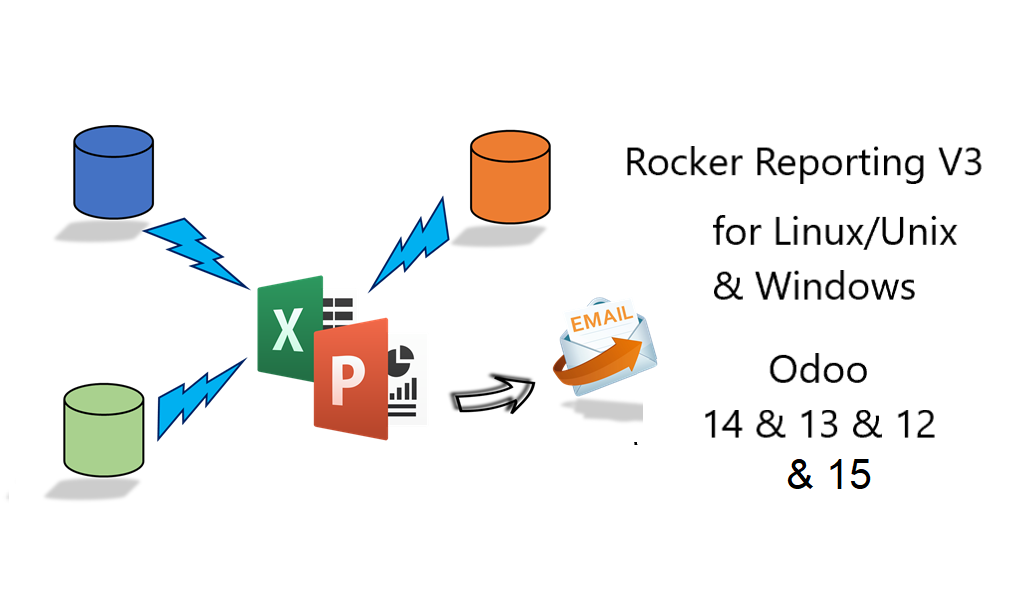
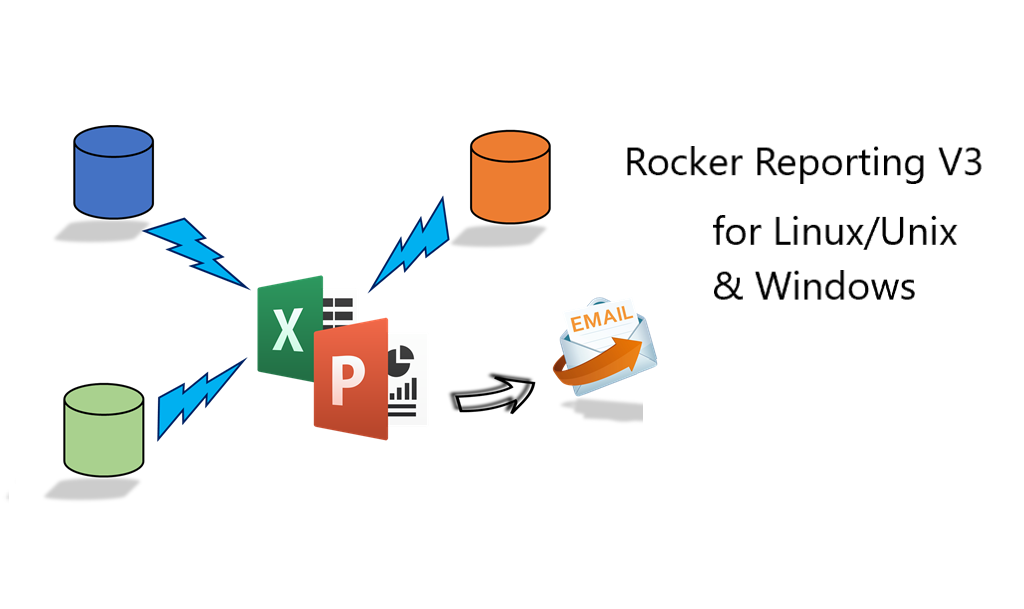
odoo 16

Changed region(s): [[0.6875, 0.6552, 0.9062, 0.7176], [0.75, 0.7488, 0.875, 0.8112], [0.75, 0.5616, 0.8438, 0.624]]

diff --git a/rocker_app_v3/static/description/index.html b/rocker_app_v3/static/description/index.html
@@ -11,7 +11,7 @@
     <div class="container">
         <h1>Rocker Reporting V3</h1>
         <h2>for Odoo / Linux, Unix & Windows platforms</h2>
-        <h3>Odoo 12.0 & Odoo 13.0 & Odoo 14 & Odoo 15</h3>
+        <h3>Odoo 12.0 & Odoo 13.0 & Odoo 14 & Odoo 15 & Odoo 16</h3>
         Collect data to Excel or Powerpoint from various data sources, Present business data with Powerpoint graphs.
         Or use Excel templates to present business graphs.
         Get data from Odoo & external PostgreSQL, SQLServer, MySQL, MariaDB, ODBC or Oracle databases. Send reports by
@@ -19,7 +19,7 @@
         <p>
         <h2>Requirements:</h2>
         <ol>
-            <li>Odoo 12 or Odoo 13 or Odoo 14 or Odoo 15 installed</li>
+            <li>Odoo 12 or Odoo 13 or Odoo 14 or Odoo 15 or Odoo 16 installed</li>
             <li>Support Linux, Unix & Windows servers</li>
             <li>Does not need Excel or PowerPoint installed on server</li>
             <li>Openpyxl, Python-PPTX & Pandas python packages installed on server</li>
@@ -30,6 +30,10 @@
 
         <h2>News/Notes:</h2>
         <ul>
+            <li><b>5.4.2023</b>
+                <br>
+                Version for Odoo 16
+            </li>
             <li><b>3.2.2021</b>
                 <br>
                 Fixed access rules
@@ -76,10 +80,8 @@
                 </li>
             <p>
                 <li><b>24.2.2020</b>
-                    <br>Did you create nice report that takes data from Odoo or other well known Application?<br>
-                    Why don't you share it with others. Upload your Excel template, SQL & screendump to
-                    <b><a href="https://github.com/akarki58/rocker_templates">Rocker_Templates repository</a></b>
-                    <p>Author contact: antti.rocker.karki@outlook.com</p>
+                    <br>
+                    Author contact: antti.rocker.karki (at) outlook.com
                 </li>
         </ul>
         <p>

diff --git a/rocker_app_v3/models/rocker_report.py b/rocker_app_v3/models/rocker_report.py
@@ -47,6 +47,10 @@ _logger = logging.getLogger(__name__)
 # _logger.error('An ERROR message')
 # --log_level=:DEBUG
 
+@api.model
+def _lang_get(self):
+    return self.env['res.lang'].get_installed()
+
 class rocker_report_collection(models.Model):
     _name = 'rocker.report.collection'
     _description = 'Rocker Collection Reports'
@@ -73,7 +77,7 @@ class Report(models.Model):
     database = fields.Many2one('rocker.database', string='Datasource',
                                default=lambda self: self.env['rocker.database'].search([('name', '=', 'Odoo')]))
     report_ids = fields.Many2many('rocker.report', 'rocker_report_collection', 'collection_id', 'report_id',
-                                  'Collection reports:    (If Excel then check that Sheet names are unique!)',
+                                  'Check that Excel Sheet names are unique!',
                                   domain="[('report_type', '=', 'single'),('report_application','=', report_application)]")
     sequence = fields.Integer(string='Sequence', default=10)
     collection_ids = fields.Many2many('rocker.report', 'rocker_report_collection', 'report_id', 'collection_id',
@@ -195,7 +199,10 @@ class Report(models.Model):
     email_subject = fields.Char('Subject', default='Rocker Report Notification: [NAME], [DATE]')
     email_to = fields.Char('Email To')
     email_body = fields.Text('Message Body', default='[FILENAME] has been executed at [DATETIME]<p>Cheers<br/>Rocker')
-     
+
+    lang = fields.Selection(_lang_get, string='Language',
+                            help="Show data in this language if many available.")
+
     # def write(self, vals):
     #     _logger.debug('Rocker report write')
     #     return super(Report, self).write(vals)
@@ -283,7 +290,7 @@ class Report(models.Model):
             if con:
                 _logger.debug('Populate single Powerpoint report')
                 # one per page
-                slide, element_written = self._populate_pp_sql(self, con, prs, slide, page_elements, pp_title, self.select_clause, self.column_headings, cnt_report, element_written, collection)
+                slide, element_written = self._populate_pp_sql(self, con, prs, slide, page_elements, pp_title, self.select_clause, self.column_headings, cnt_report, element_written, collection, self.lang)
             else:
                 raise exceptions.ValidationError('No DB connection')
         elif self.report_type == 'collection':
@@ -313,7 +320,7 @@ class Report(models.Model):
                     _logger.debug('Report number ' +  str(cnt_report) + ' on Slide: ' + str(slides_created))
                 if con:
                     _logger.debug('PowerPoint Collection report populate')
-                    slide, element_written = self._populate_pp_sql(report, con, prs, slide, page_elements, pp_title, report.select_clause, report.column_headings, cnt_report, element_written, collection)
+                    slide, element_written = self._populate_pp_sql(report, con, prs, slide, page_elements, pp_title, report.select_clause, report.column_headings, cnt_report, element_written, collection, report.lang)
                 else:
                     raise exceptions.ValidationError('No DB connection')
                 cnt_report += 1
@@ -410,7 +417,7 @@ class Report(models.Model):
             # let's fill with data
             if con:
                 _logger.debug('Populate single report')
-                self._populate_sql(con, workbook, worksheet, self.select_clause, self.column_headings)
+                self._populate_sql(con, workbook, worksheet, self.select_clause, self.column_headings, self.lang)
             else:
                 raise exceptions.ValidationError('No DB connection')
         elif self.report_type == 'collection':
@@ -425,7 +432,7 @@ class Report(models.Model):
                 # let's fill with data
                 if con:
                     _logger.debug('Collection report populate')
-                    self._populate_sql(con, workbook, worksheet, report.select_clause, report.column_headings)
+                    self._populate_sql(con, workbook, worksheet, report.select_clause, report.column_headings, report.lang)
                 else:
                     raise exceptions.ValidationError('No DB connection')
 
@@ -545,7 +552,7 @@ class Report(models.Model):
         else:
             raise exceptions.ValidationError('Exception, No Database connection')
 
-    def _populate_sql(self, con, workbook, worksheet, sql, headings, context=None):
+    def _populate_sql(self, con, workbook, worksheet, sql, headings, language, context=None):
 
         # for tbl in worksheet.tables:
         #     _logger.debug('Warning: Sheet ' + worksheet.title + ' has a table ' + tbl + '. If it is overlapping with data area, Excel might be corrupted')
@@ -585,7 +592,7 @@ class Report(models.Model):
             i += 1
             j = 0
             for col in row:
-                worksheet.cell(row=i+1,column=j+1).value = col
+                worksheet.cell(row=i+1,column=j+1).value = self._choose_lang(language, col)
                 j += 1
         # find new max row in data range
         col = 1
@@ -598,23 +605,26 @@ class Report(models.Model):
             col += 1
 
         # define named range for every col
-        col = 1
-        for head in header:
-            atext = 'OFFSET(' + worksheet.title + '!$' + get_column_letter(worksheet.cell(row=1,column=col).column) + \
-                    '$2,,,' + str(max_in_range - 1) + ')'
-            _logger.debug("Named range reference: " + atext)
-            try:
-                my_range = workbook.defined_names[head]
-                my_range.attr_text = atext
-                _logger.debug('Modified Range: ' + head + " " + my_range.attr_text)
-            except:
-                _logger.debug('Range does not exist')
-                workbook.create_named_range(head,worksheet, '$A$2')
-                my_range = workbook.defined_names[head]
-                my_range.attr_text = atext
-                _logger.debug('Created New Range: ' + head + " " + my_range.attr_text)
-
-            col += 1
+        # col = 1
+        # for head in header:
+        #     atext = 'OFFSET(' + worksheet.title + '!$' + get_column_letter(worksheet.cell(row=1,column=col).column) + \
+        #             '$2,,,' + str(max_in_range - 1) + ')'
+        #     _logger.debug("Named range reference: " + atext)
+        #     #ToDo: korjaa range
+        #     try:
+        #         my_range = workbook.defined_names[head]
+        #         my_range.attr_text = atext
+        #         _logger.debug('Modified Range: ' + head + " " + my_range.attr_text)
+        #     except:
+        #         _logger.debug('Range does not exist')
+        #         ref = "{quote_sheetname(worksheet.title)}!{absolute_coordinate('$A$2')}"
+        #         defn = DefinedName("global_range", attr_text=ref)
+        #         workbook.create_named_range(head,worksheet, '$A$2')
+        #         my_range = workbook.defined_names[head]
+        #         my_range.attr_text = atext
+        #         _logger.debug('Created New Range: ' + head + " " + my_range.attr_text)
+        #
+        #     col += 1
         style = TableStyleInfo(name="TableStyleMedium9", showFirstColumn=False,
                                showLastColumn=False, showRowStripes=True, showColumnStripes=False)
         tableref = "A1:{}{}".format(get_column_letter(cols), str(max_in_range))
@@ -640,7 +650,7 @@ class Report(models.Model):
             con.close()
         return True
 
-    def _populate_pp_sql(self, report, con, prs, slide, page_elements, pp_title, sql, headings, cnt_report, last_element_written, collection, context=None):
+    def _populate_pp_sql(self, report, con, prs, slide, page_elements, pp_title, sql, headings, cnt_report, last_element_written, collection, language, context=None):
         from pptx.enum.chart import XL_CHART_TYPE
         from pptx.enum.chart import XL_LEGEND_POSITION
         from pptx.enum.chart import XL_LABEL_POSITION
@@ -672,17 +682,21 @@ class Report(models.Model):
         if self.element == 'chart':
             if self.chart_type == '15':
                 from pptx.chart.data import BubbleChartData
+                _logger.debug('BubbleChart')
                 chart_data = BubbleChartData()
             elif self.chart_type in ['-4169','74','75','72','73']:
                 from pptx.chart.data import XyChartData
+                _logger.debug('XYChart')
                 chart_data = XyChartData()
             else:
                 from pptx.chart.data import CategoryChartData
+                _logger.debug('CategoryChart')
                 chart_data = CategoryChartData()
                 categories = header   # but first column contains series
                 categories.pop(0)
                 if self.chart_type not in ['99995', '999969']:   # categories from row data specialities
                     chart_data.categories = categories
+                    _logger.debug(str(categories))
                 else:
                     categories = []
 
@@ -695,8 +709,21 @@ class Report(models.Model):
             raise exceptions.ValidationError('Error in Select clause!\n\n' + str(e))
 
         records = cur.fetchall()
+        _logger.debug('Records: ' )
+        _logger.debug(records)
+        # language selection
+        list_records = list(records)
+        for i in range(len(list_records)):
+            list_row = list(list_records[i])
+            for j in range(len(list_row)):
+                list_row[j] = self._choose_lang(language, list_row[j])
+                # _logger.debug('List_row: ')
+                _logger.debug(list_row[j])
+            list_records[i] = tuple(list_row)
+        _logger.debug('List_Recrds: ' )
+        _logger.debug(list_records)
+        records = tuple(list_records)
         i = len(records)
-
         j = 0
         r = 0
         prev_seriesname = ''
@@ -764,6 +791,7 @@ class Report(models.Model):
                 for col in row:
                     cell = table.cell(r, c)
                     cell.text = str(row[c])
+                    # cell.text = self._choose_lang(language, row[c])
                     run = table.cell(r, c).text_frame.paragraphs[0].runs[0]
                     run.font.size = Pt(font_size)
                     c = c + 1
@@ -774,6 +802,7 @@ class Report(models.Model):
                     _logger.debug('Bubble chart 15 ')
                     #                #series_1.add_data_point(0.7, 2.7, 10)
                     seriesname = str(row[0])
+                    _logger.debug('seriesname: ')
                     _logger.debug(seriesname)
                     valuelist = list(row)
                     valuelist.pop(0) # series name taken away
@@ -824,7 +853,11 @@ class Report(models.Model):
                     except Exception as e:
                         raise exceptions.ValidationError('Error in XY Chart!\n\n' + str(e))
                 else:
+                    # _logger.debug('row: ')
+                    # _logger.debug(row)
                     series = str(row[0])
+                    # series = self._choose_lang(language, row[0])
+                    _logger.debug('series: ')
                     _logger.debug(series)
                     valuelist = list(row)
                     valuelist.pop(0) # series name taken away
@@ -975,6 +1008,27 @@ class Report(models.Model):
             con.close()
         #return True
         return slide, element_written
+
+    def _choose_lang(self, language, data):
+        # todo language
+        col_data = ''
+        if type(data) is dict:
+            # _logger.debug('Dict: ' + str(data))
+            if language:
+                # _logger.debug('Language: ' + language)
+                if language in data:
+                    col_data = data[language]
+                else:
+                    col_data = list(data.values())[0]
+                # _logger.debug('Language col taken: ' + col_data)
+
+            else:
+                # _logger.debug('NO Language taking first: ' + list(data.values())[0])
+                col_data = list(data.values())[0]
+        else:
+            # _logger.debug('Str or int: ' + str(data))
+            return data
+        return col_data
 
     def _find_place(self, page_elements, element_written, pp_title):
         from pptx.util import Pt

diff --git a/rocker_app_v3/models/rocker_connection.py b/rocker_app_v3/models/rocker_connection.py
@@ -50,9 +50,12 @@ class rocker_connection():
             if _driver == 'postgresql':
                 try:
                     import psycopg2
+                    # import sqlalchemy
                 except:
                     raise exceptions.ValidationError('No Postgres drivers')
                 con = psycopg2.connect(host=_host, port=_port, database=_database, user=_user, password=_password)
+                # con = sqlalchemy.create_engine(f"postgresql+psycopg2://{_user}:{_password}@{_host}:{_port}/{_database}")
+
             elif _driver == "mysql":
                 try:
                     import mysql.connector

diff --git a/rocker_app_v3/__manifest__.py b/rocker_app_v3/__manifest__.py
@@ -4,8 +4,8 @@
  'author': 'Antti Kärki',
  'depends': ['base','web','mail'],
  'license': 'AGPL-3',
- 'category': 'Extra Tools',
- 'version': '15.0.3.0.1',
+ 'category': 'Rocker/Reporting',
+ 'version': '16.0.3.0.1',
  'data': [
   'security/rocker_security.xml',
   'security/ir.model.access.csv',
